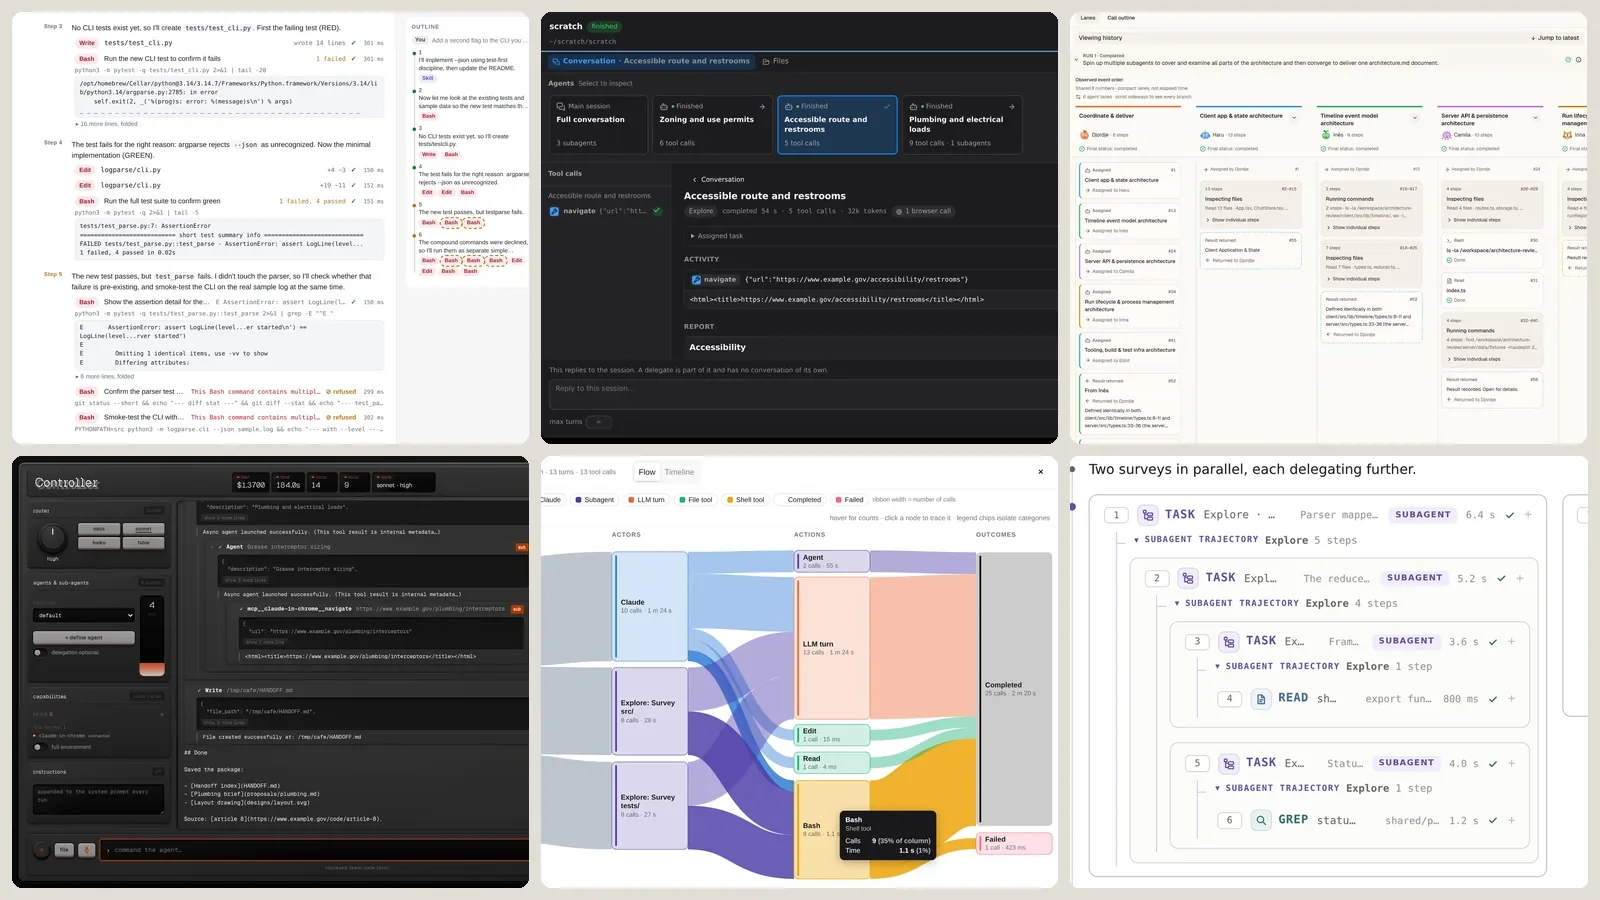
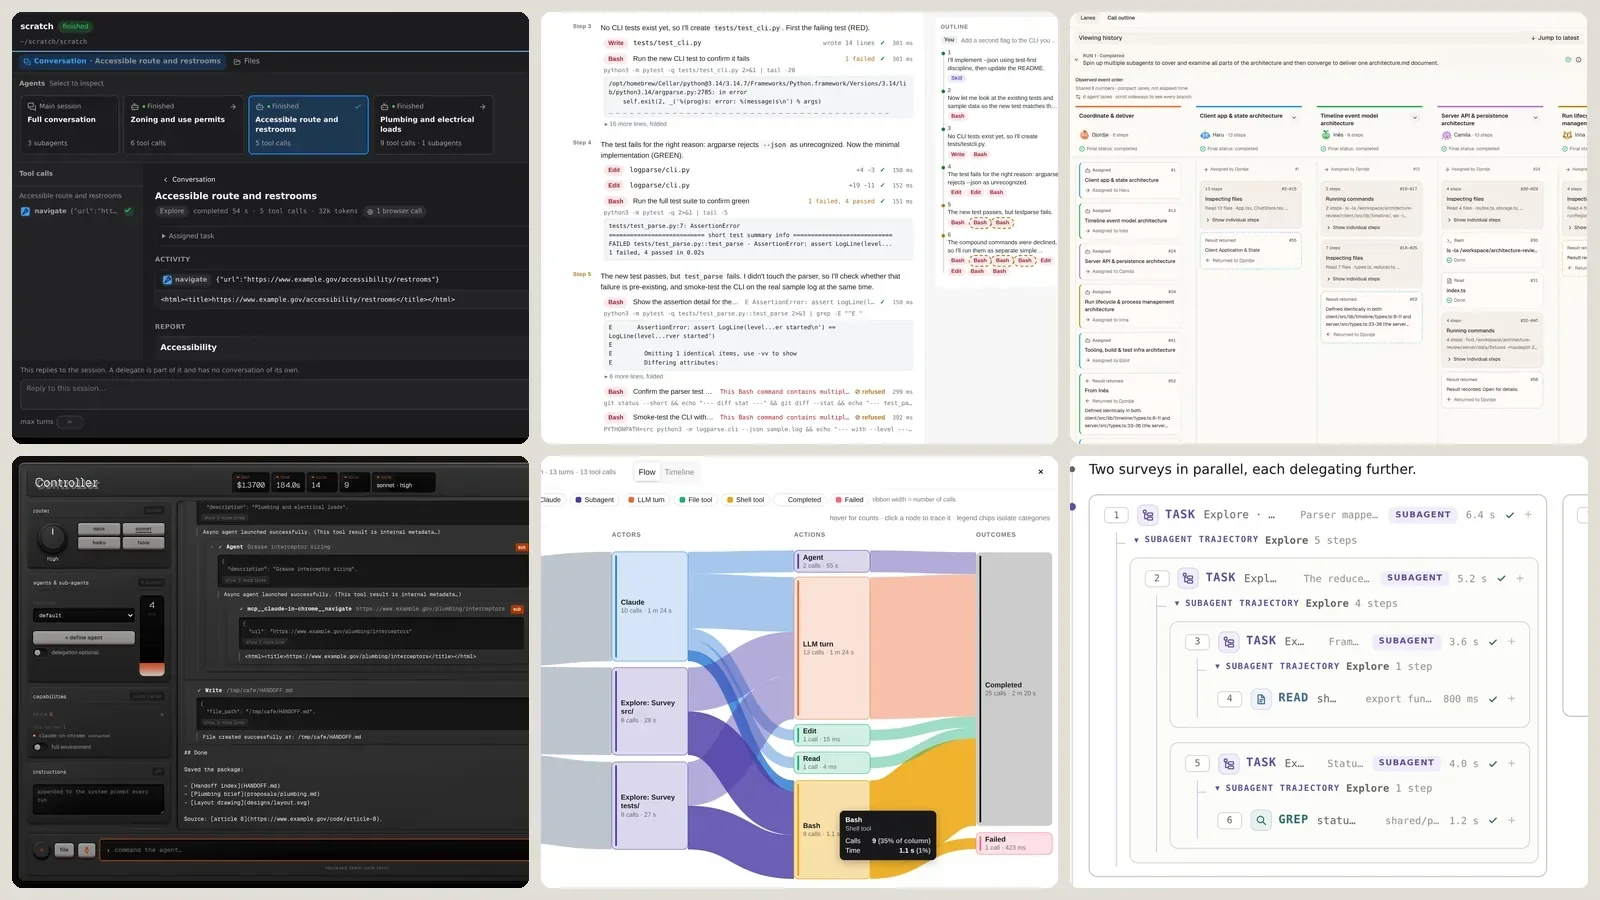
Assignment1(cs2680-staff): Lead the top-designs post with Mission Control (#4)
Move the "Subagents as a team" section to the front, with Mission
Control first in it, so it is the first app in the post. The list of
what a log hides and the summary follow the new section order, and
Mission Control swaps places with Intent Timeline as the first tile in
the cover montage and its caption.

Claude-Session: https://claude.ai/code/session_01QBXJ1bPFZc2RKExyAEJANB

diff --git a/content/2026/assignment1/top-designs/index.md b/content/2026/assignment1/top-designs/index.md
@@ -2,12 +2,12 @@
 title: "Seven ways to watch a coding agent"
 date: 2026-10-04
 authors: ["cs2680-staff"]
-summary: "The standout Assignment 1 interfaces: where a run's time went, how subagents split the work, and controls you can see."
+summary: "The standout Assignment 1 interfaces: how subagents split the work, where a run's time went, and controls you can see."
 tags: ["agent-ui", "observability", "subagents", "showcase"]
 draft: false
 cover: "cover.webp"
 coverAlt: "A grid of six screenshots of student-built apps for watching Claude Code runs."
-coverCaption: "Six of the seven apps below. Top: Intent Timeline, Mission Control, Patchwork. Bottom: Controller, Sankey Flow, Fork View."
+coverCaption: "Six of the seven apps below. Top: Mission Control, Intent Timeline, Patchwork. Bottom: Controller, Sankey Flow, Fork View."
 toc: true
 ---
 
@@ -32,13 +32,54 @@ Code or spending any usage.
 
 A log shows what happened, in order. Three things are hard to see in it:
 
-- **Time.** A call that took 4 ms looks the same as one that took 40 s.
 - **Delegation.** A subagent becomes an indented block, not a worker with an assignment and a
   result.
+- **Time.** A call that took 4 ms looks the same as one that took 40 s.
 - **Control.** The model, the effort level and how much to delegate are set in a prompt, where
   you can't see them.
 
 The sections below take these one at a time.
+
+## Subagents as a team
+
+### Saul Richardson: Mission Control
+
+Saul Richardson's Mission Control treats delegation as something to manage. Above the
+conversation sits a strip of cards: the main session, then one card per delegate with its
+status and current activity. Click a delegate and the whole view scopes to it, with its
+assigned task, its activity, its numbers and its report. The composer spells out the rule:
+"This replies to the session. A delegate is part of it and has no conversation of its own."
+
+![A dark interface with a row of agent cards above the conversation; one delegate card is selected and the view below shows its task, activity and report](richardson-delegate.webp "Mission Control after a run from its own test fixtures, scoped to one of three delegates: 54 s, 5 tool calls, 32k tokens.")
+
+Try it: [`mission-control/`](https://github.com/HarvardMadSys/CS2680-Assignment1-Mads-Lens/tree/main/mission-control)
+
+### Djordje Ivanovic: Patchwork
+
+Djordje Ivanovic's Patchwork turns subagents into characters, each with a name and an avatar,
+and its Lanes view gives every agent a column. The lead's column reads like a delegation log:
+an *Assigned* card for each task and who took it, then a *Result returned* card with the first
+lines of each answer. Every subagent's column opens with "Assigned by Djordje" and closes with
+the result it handed back. Runs of similar calls collapse into a phrase ("13 steps ·
+Inspecting files · Read 13 files"), failures are pulled out under *Steps needing attention*,
+and the panel is candid about how it treats time: "compact lanes, not elapsed time."
+
+![Four lanes: the lead's lane with Assigned and Result returned cards, and three subagent lanes with grouped steps and returned results](ivanovic-lanes.webp "Patchwork's Lanes view on a recorded run with five parallel subagents. The lead's lane lists each assignment and each returned result.")
+
+Try it: [`patchwork/`](https://github.com/HarvardMadSys/CS2680-Assignment1-Mads-Lens/tree/main/patchwork)
+
+### Zoe Jingyi Liu: Fork View
+
+Zoe Jingyi Liu's Fork View forks the log itself. When subagents run in parallel they get
+side-by-side columns in the trajectory, each with its brief, step count and duration, and a
+subagent that delegates again forks again inside its own column. The app is just as careful
+about how a run ends. While a run streams, the header shows a lower bound on the cost
+(`≥$0.2496`) that turns into the exact figure when the result arrives, and a stopped run says
+what it kept: "Run stopped. Everything recorded before this point is kept."
+
+![Two subagent cards side by side, the left one containing two more nested subagents](liu-columns.webp "Fork View replaying its bundled parallel-deep example: two surveys run side by side, and each one delegates further inside its own column.")
+
+Try it: [`fork-view/`](https://github.com/HarvardMadSys/CS2680-Assignment1-Mads-Lens/tree/main/fork-view)
 
 ## Where the time went
 
@@ -93,47 +134,6 @@ subagents' models, and each subagent reports what it asked for and what it ran o
 ![A timeline with three swimlanes: the main agent with two long Agent bars, and one lane for each subagent with short tool blocks in the same window of time](gong-timeline.webp "Swimlanes on a recorded two-subagent run (a recording from another app). The main lane's two Agent bars span the same seconds as the subagents' own lanes.")
 
 Try it: [`swimlanes/`](https://github.com/HarvardMadSys/CS2680-Assignment1-Mads-Lens/tree/main/swimlanes)
-
-## Subagents as a team
-
-### Djordje Ivanovic: Patchwork
-
-Djordje Ivanovic's Patchwork turns subagents into characters, each with a name and an avatar,
-and its Lanes view gives every agent a column. The lead's column reads like a delegation log:
-an *Assigned* card for each task and who took it, then a *Result returned* card with the first
-lines of each answer. Every subagent's column opens with "Assigned by Djordje" and closes with
-the result it handed back. Runs of similar calls collapse into a phrase ("13 steps ·
-Inspecting files · Read 13 files"), failures are pulled out under *Steps needing attention*,
-and the panel is candid about how it treats time: "compact lanes, not elapsed time."
-
-![Four lanes: the lead's lane with Assigned and Result returned cards, and three subagent lanes with grouped steps and returned results](ivanovic-lanes.webp "Patchwork's Lanes view on a recorded run with five parallel subagents. The lead's lane lists each assignment and each returned result.")
-
-Try it: [`patchwork/`](https://github.com/HarvardMadSys/CS2680-Assignment1-Mads-Lens/tree/main/patchwork)
-
-### Zoe Jingyi Liu: Fork View
-
-Zoe Jingyi Liu's Fork View forks the log itself. When subagents run in parallel they get
-side-by-side columns in the trajectory, each with its brief, step count and duration, and a
-subagent that delegates again forks again inside its own column. The app is just as careful
-about how a run ends. While a run streams, the header shows a lower bound on the cost
-(`≥$0.2496`) that turns into the exact figure when the result arrives, and a stopped run says
-what it kept: "Run stopped. Everything recorded before this point is kept."
-
-![Two subagent cards side by side, the left one containing two more nested subagents](liu-columns.webp "Fork View replaying its bundled parallel-deep example: two surveys run side by side, and each one delegates further inside its own column.")
-
-Try it: [`fork-view/`](https://github.com/HarvardMadSys/CS2680-Assignment1-Mads-Lens/tree/main/fork-view)
-
-### Saul Richardson: Mission Control
-
-Saul Richardson's Mission Control treats delegation as something to manage. Above the
-conversation sits a strip of cards: the main session, then one card per delegate with its
-status and current activity. Click a delegate and the whole view scopes to it, with its
-assigned task, its activity, its numbers and its report. The composer spells out the rule:
-"This replies to the session. A delegate is part of it and has no conversation of its own."
-
-![A dark interface with a row of agent cards above the conversation; one delegate card is selected and the view below shows its task, activity and report](richardson-delegate.webp "Mission Control after a run from its own test fixtures, scoped to one of three delegates: 54 s, 5 tool calls, 32k tokens.")
-
-Try it: [`mission-control/`](https://github.com/HarvardMadSys/CS2680-Assignment1-Mads-Lens/tree/main/mission-control)
 
 ## Controls you can see
 
